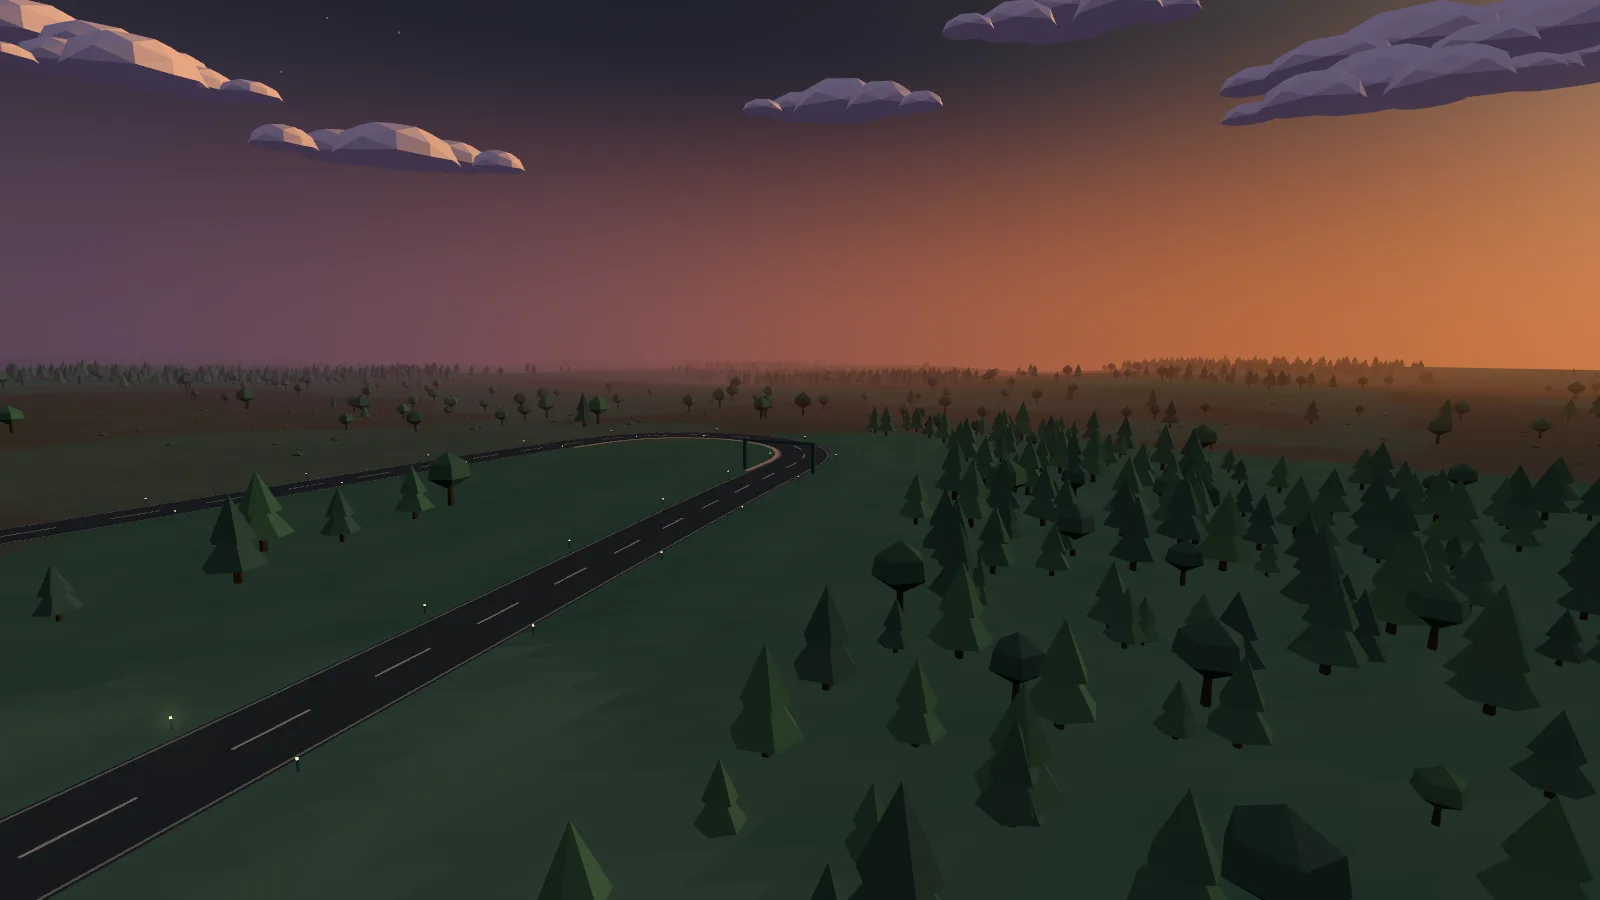
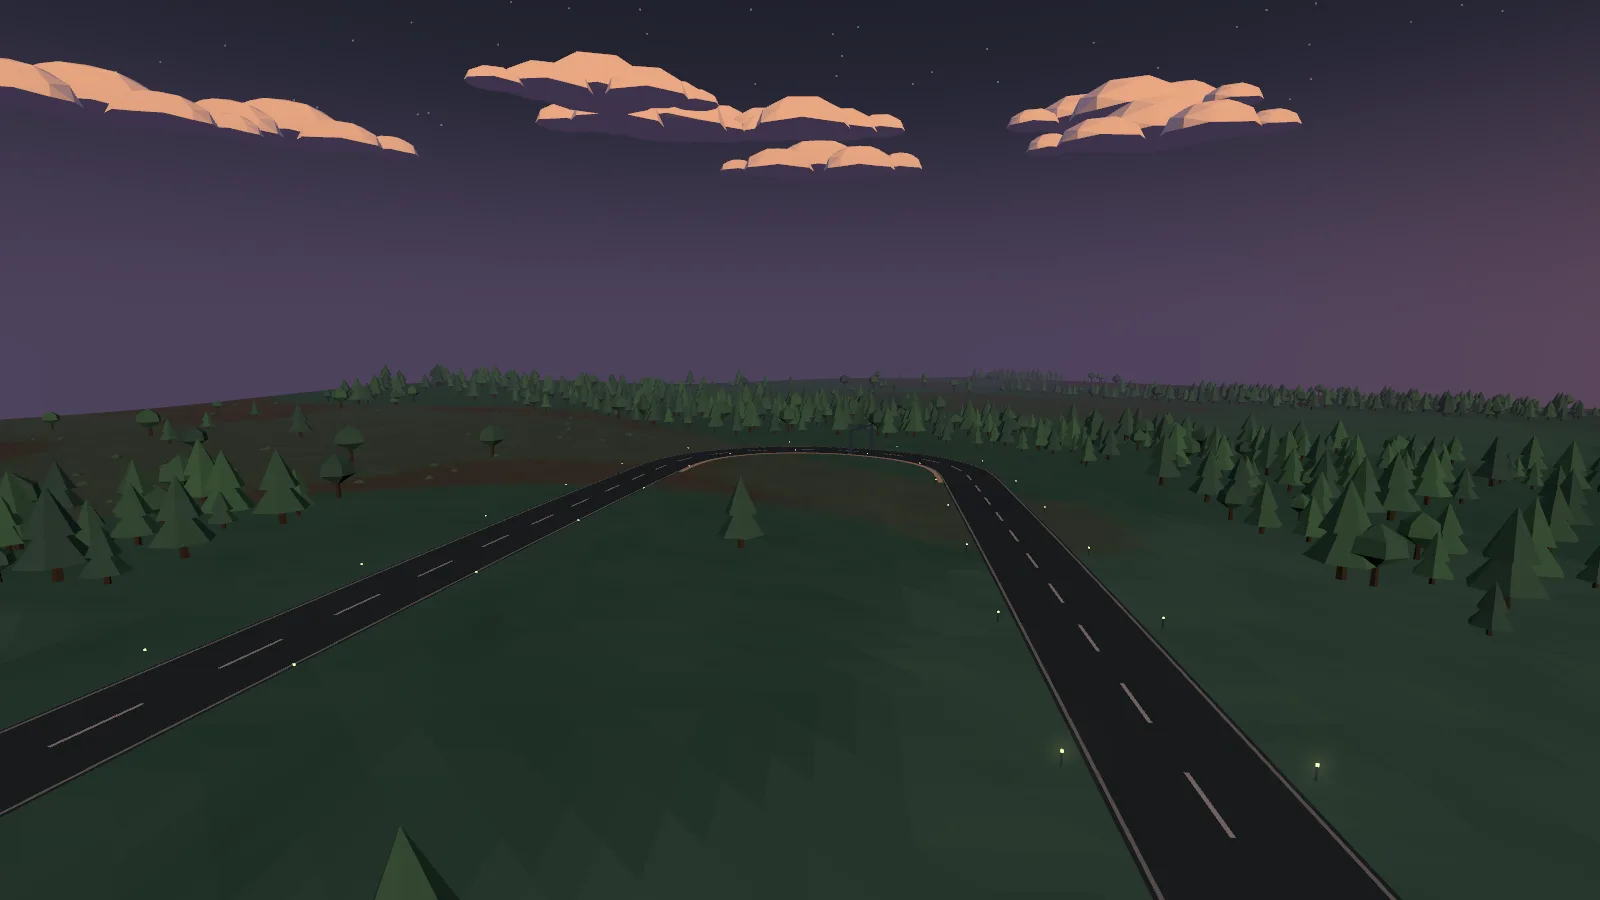
chore: reshoot the raceway menu tile on the new seed 1 lap
- camera spot moved to the lap's hairpin

diff --git a/scripts/menu-shots.ts b/scripts/menu-shots.ts
@@ -46,7 +46,7 @@ const SPOTS: Partial<Record<WorldKind, Spot>> = {
   velodrome: { at: 100, camera: { from: [481.2, 253.1, 142.8], to: [468.5, 252.4, 101.7] } },
   // Low on the inside of the wall bowl, up the wall where its high rail stops.
   wallride: { at: 100, camera: { from: [552.8, 250.5, 221.7], to: [556.5, 258.4, 176.2] } },
-  raceway: { camera: { from: [-470, 70, 190], to: [-361, 43, 326] } },
+  raceway: { camera: { from: [380, 70, -610], to: [504, 43, -748] } },
 };
 
 const args = process.argv.slice(2);
